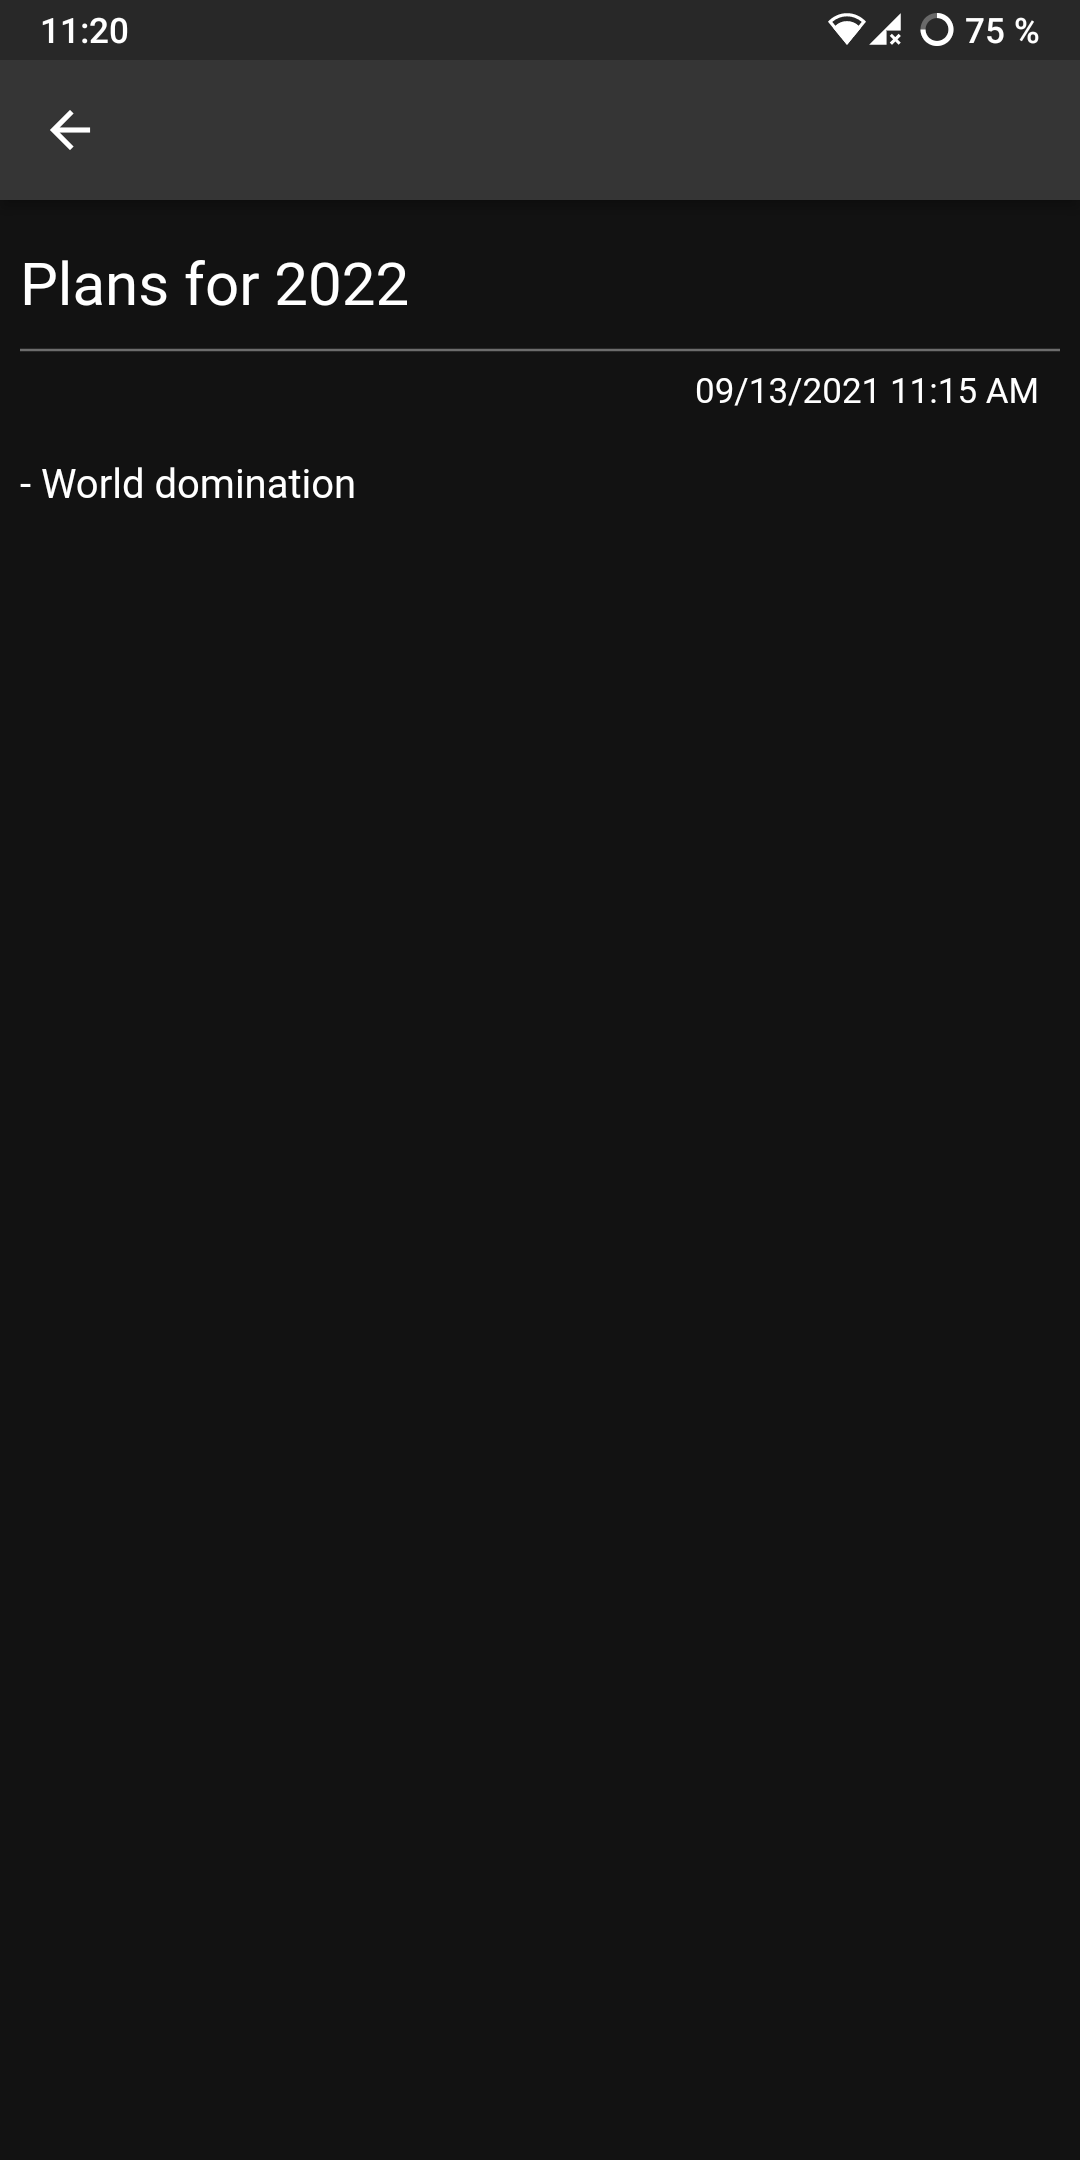
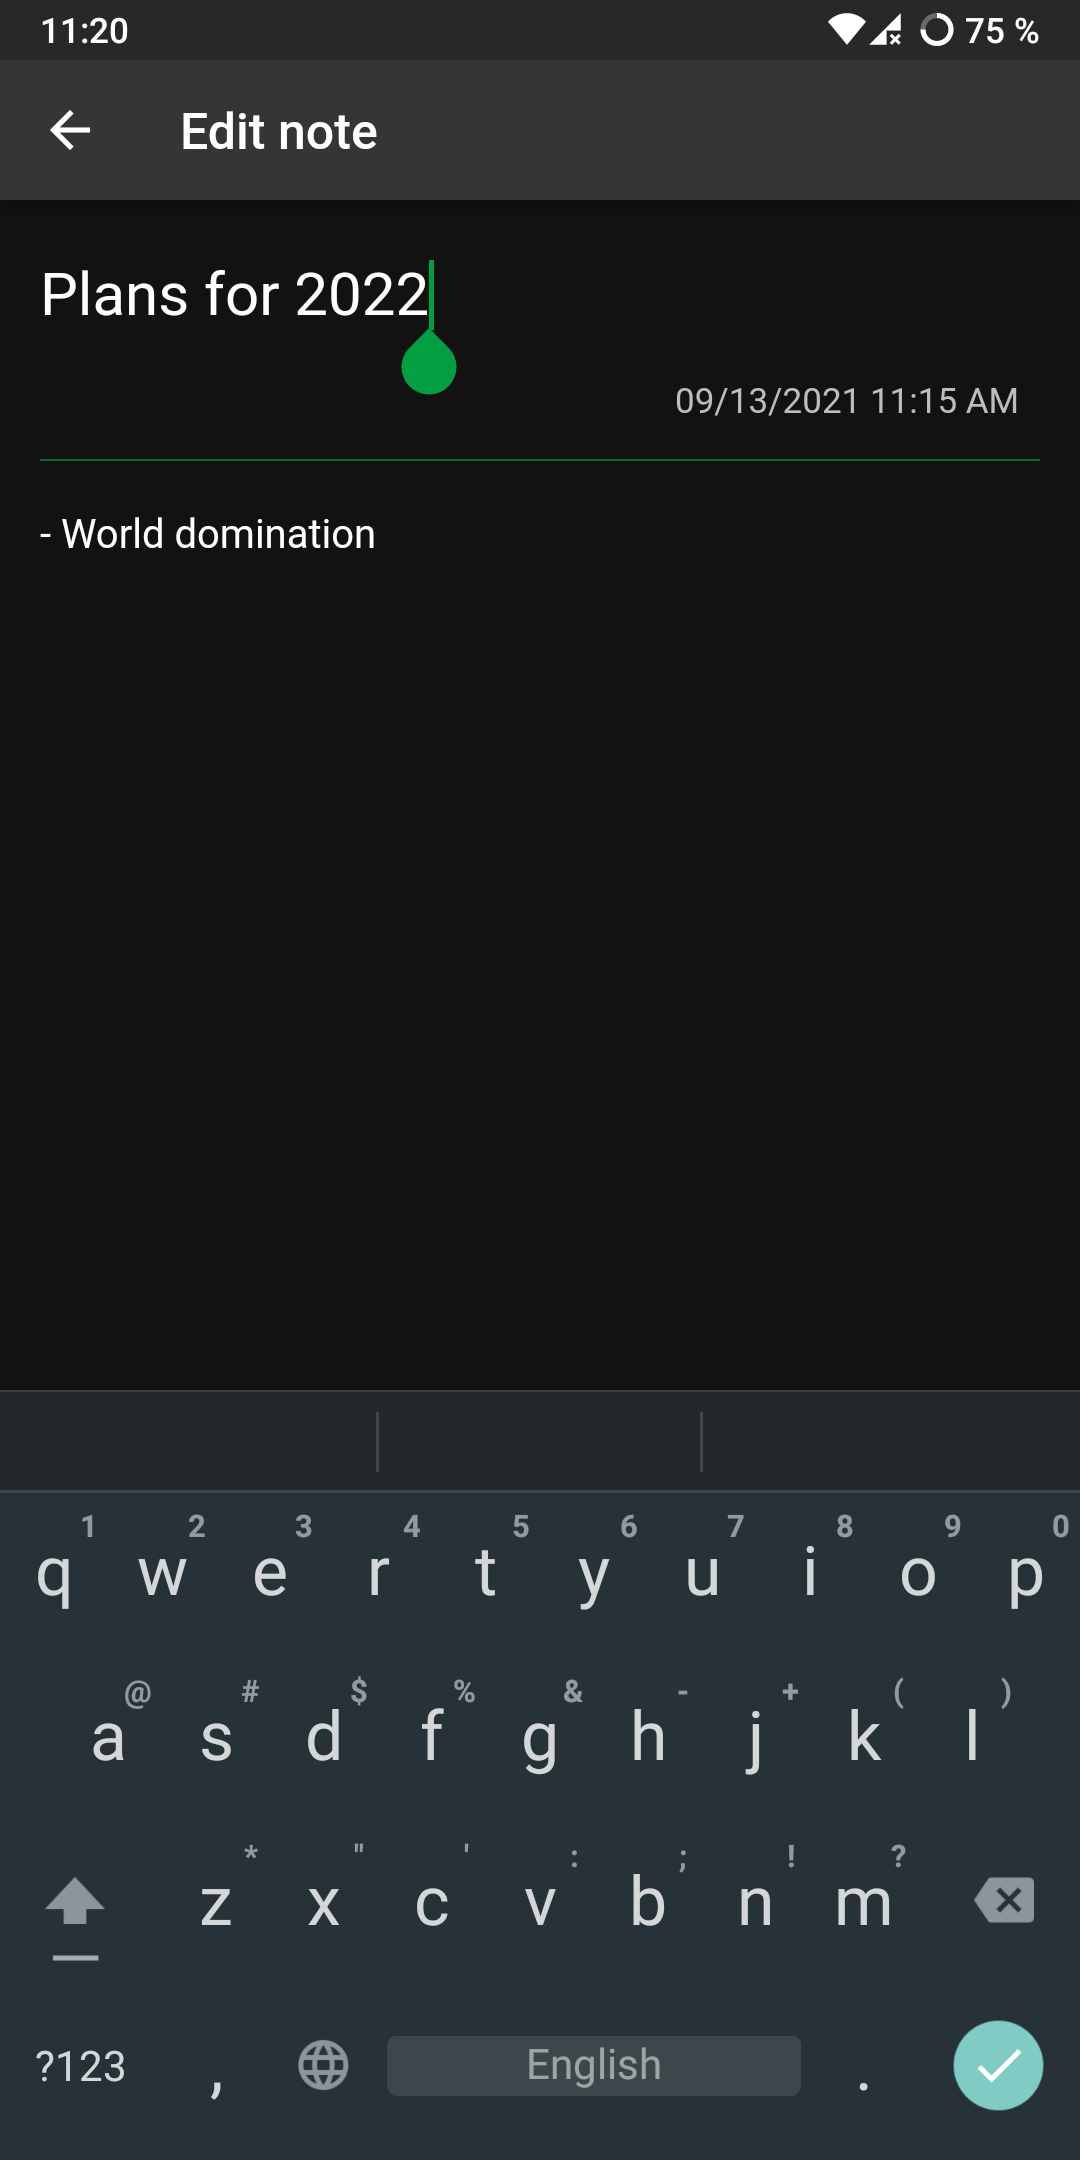
[Release] Improve edit screen design

diff --git a/lib/screens/note_edit.dart b/lib/screens/note_edit.dart
@@ -98,11 +98,13 @@ class _NoteEditPageState extends State<NoteEditPage> {
   @override
   Widget build(BuildContext context) {
     return Scaffold(
-      appBar: AppBar(),
+      appBar: AppBar(
+        title: Text(AppLocalizations.of(context)!.editPageTitle),
+      ),
       body: WillPopScope(
         onWillPop: _onLeave,
         child: Container(
-          padding: const EdgeInsets.all(8),
+          padding: const EdgeInsets.fromLTRB(16, 12, 16, 4),
           child: Column(
             children: [
               TextField(
@@ -113,6 +115,7 @@ class _NoteEditPageState extends State<NoteEditPage> {
                 ),
                 decoration: InputDecoration(
                   hintText: AppLocalizations.of(context)!.titleHint,
+                  border: InputBorder.none,
                 ),
                 onEditingComplete: () => FocusScope.of(context).nextFocus(),
               ),
@@ -122,8 +125,12 @@ class _NoteEditPageState extends State<NoteEditPage> {
                   // Show the last edit date
                   formatDate(
                       _hasChanged ? DateTime.now() : widget.note.lastEditDate),
+                  style: Theme.of(context).textTheme.bodyText2,
                 ),
                 alignment: Alignment.centerRight,
+              ),
+              Divider(
+                color: Theme.of(context).colorScheme.secondary,
               ),
               Expanded(
                 child: TextField(

diff --git a/lib/main.dart b/lib/main.dart
@@ -40,6 +40,12 @@ class NotesApp extends StatelessWidget {
           secondary: _secondaryColor,
           surface: Colors.grey[200],
         ),
+        textTheme: Typography.blackHelsinki.copyWith(
+          bodyText2: TextStyle(
+            color: Colors.grey[600],
+            fontSize: 14,
+          ),
+        ),
       ),
       darkTheme: ThemeData.from(
         colorScheme: const ColorScheme.dark().copyWith(
@@ -47,6 +53,12 @@ class NotesApp extends StatelessWidget {
           primary: _themeColor,
           secondary: _secondaryColor,
           surface: Colors.grey[900],
+        ),
+        textTheme: Typography.whiteHelsinki.copyWith(
+          bodyText2: TextStyle(
+            color: Colors.grey[400],
+            fontSize: 14,
+          ),
         ),
       ),
       home: NotesPage(),
@@ -74,7 +86,8 @@ class _NotesPageState extends State<NotesPage> {
 
   void _createNewNote() async {
     var newNote = await Navigator.of(context).push(MaterialPageRoute<Note>(
-        builder: (context) => NoteEditPage(Note.empty(), true)));
+      builder: (context) => NoteEditPage(Note.empty(), true),
+    ));
 
     if (newNote == null) {
       return;
